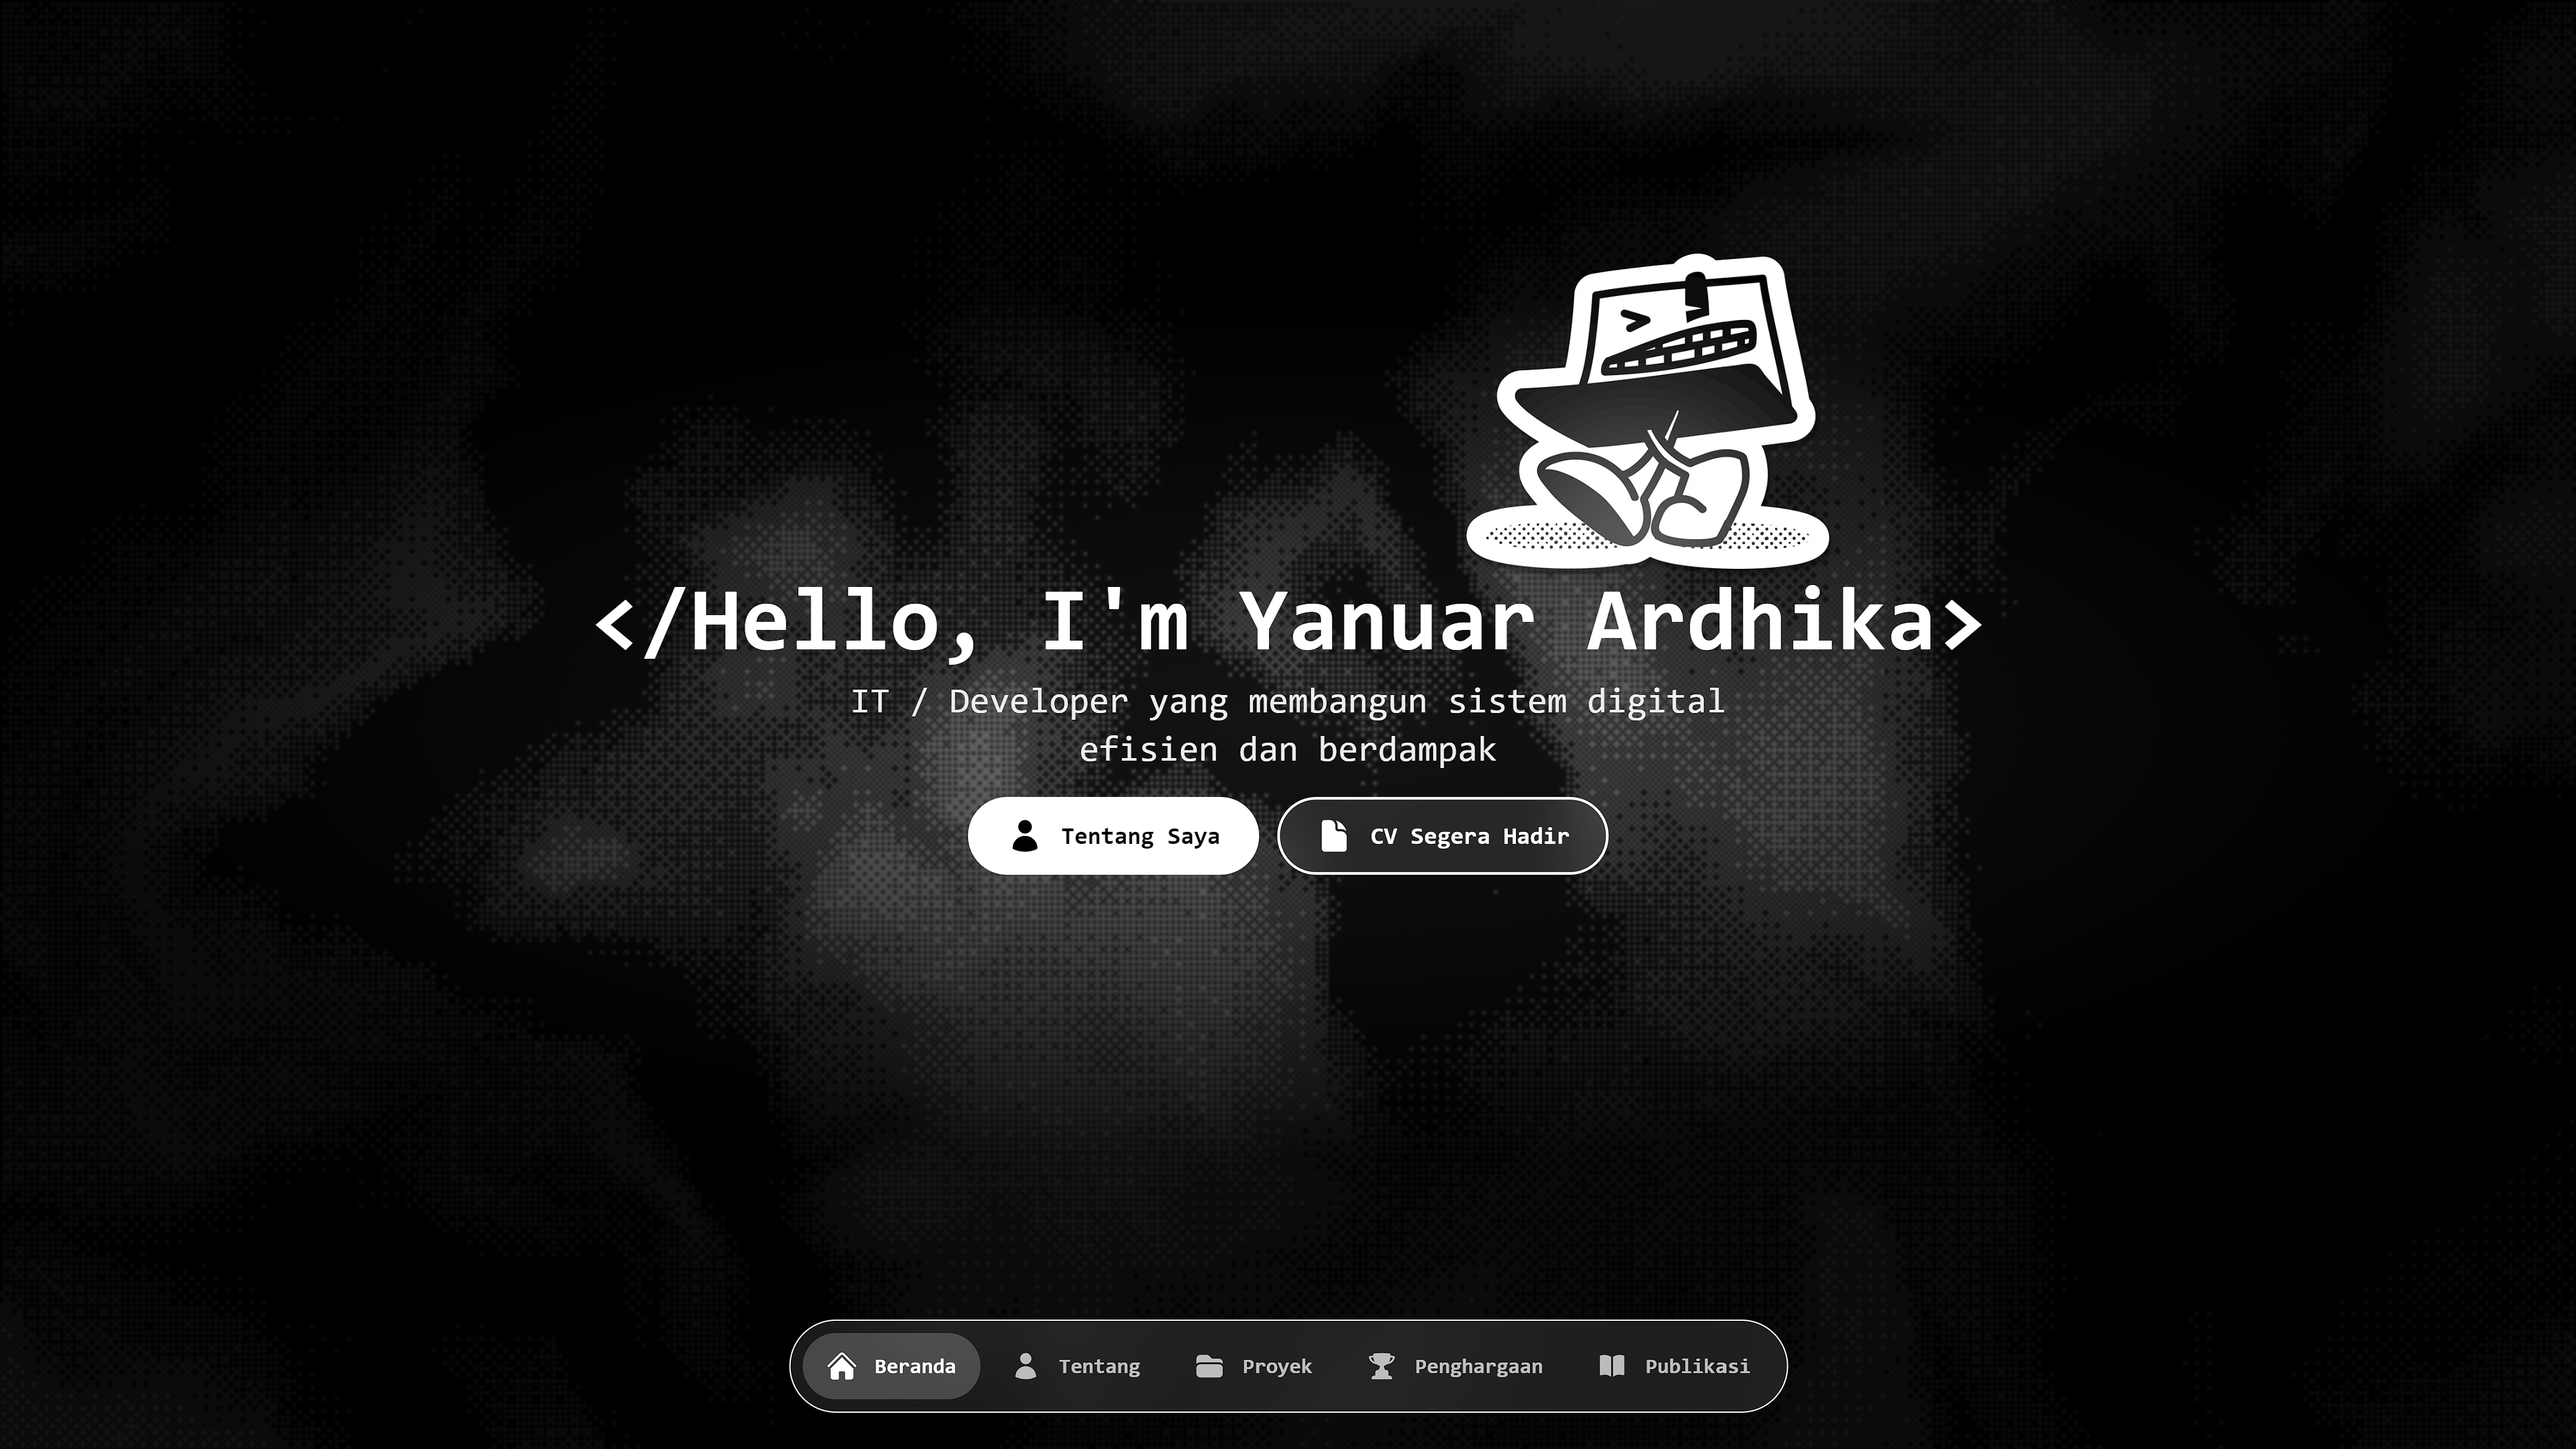
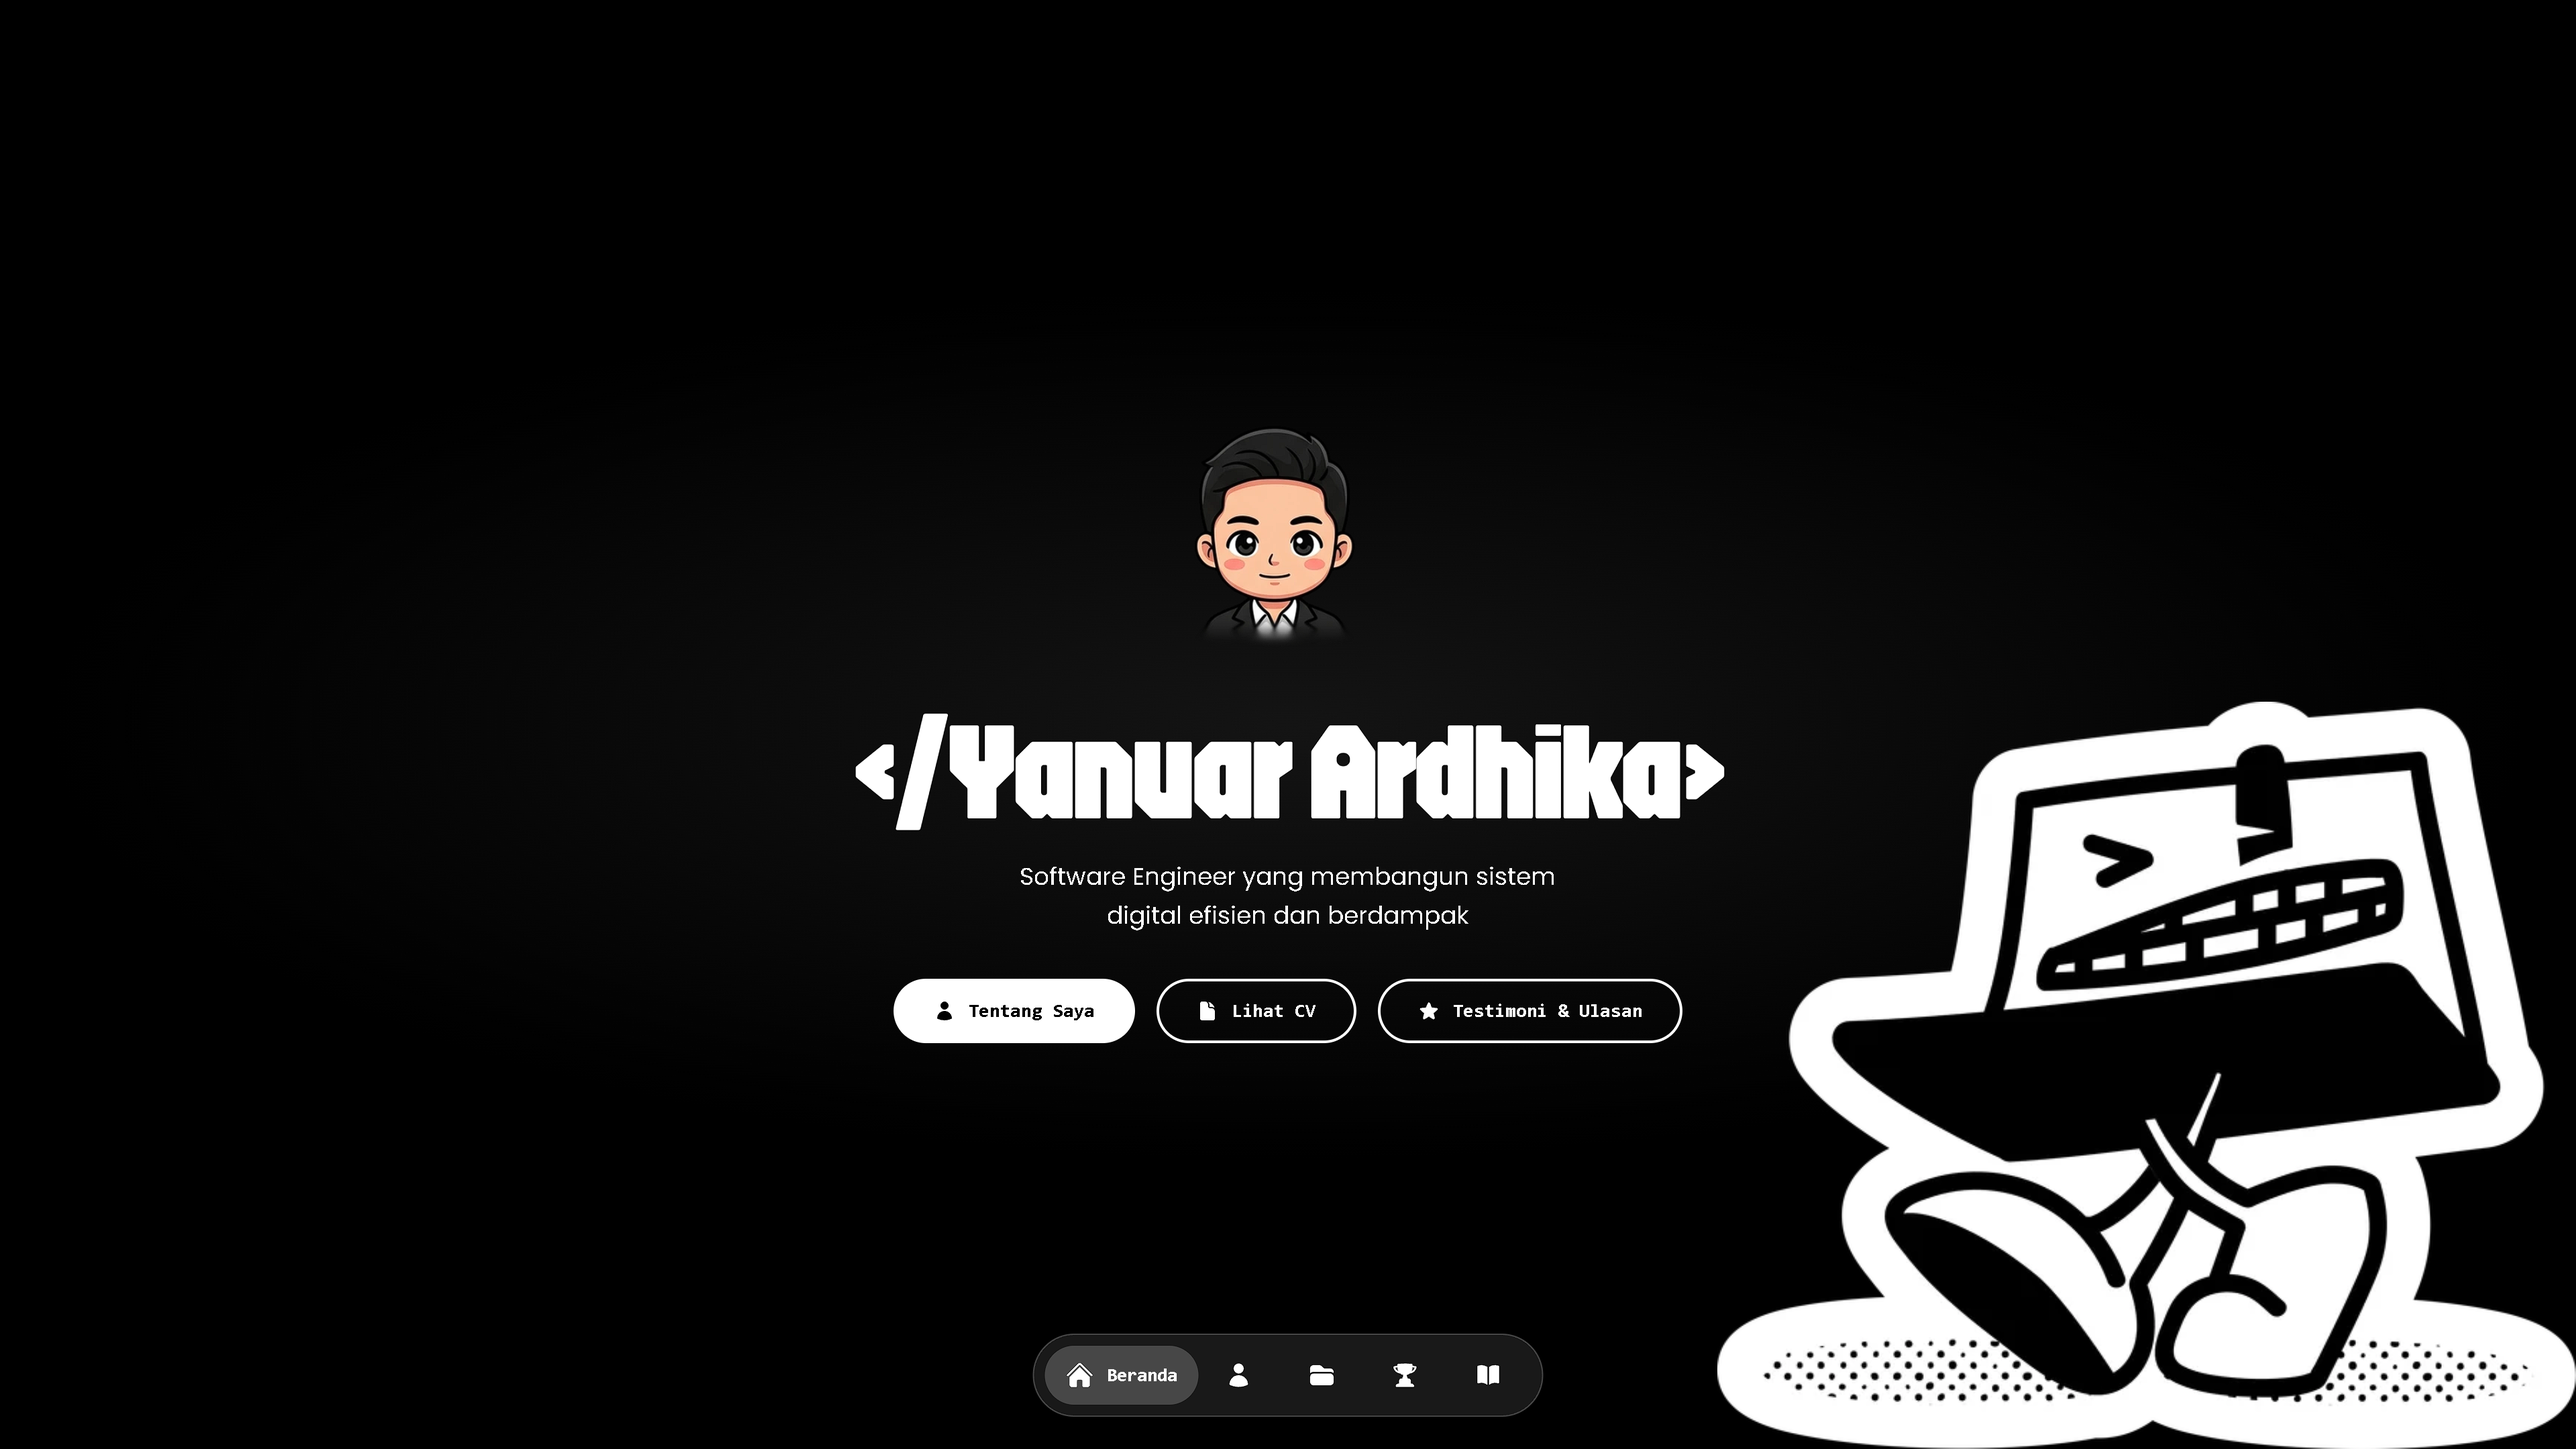
feat: update og-image to latest hero preview with mascot

Changed region(s): [[0.1875, 0.1551, 1.0, 1.0], [0.5625, 0.6824, 0.5938, 0.7134]]

diff --git a/app/layout.tsx b/app/layout.tsx
@@ -66,8 +66,8 @@ export const metadata: Metadata = {
     images: [
       {
         url: `${BASE_URL}/og-image.png`,
-        width: 1456,
-        height: 816,
+        width: 1920,
+        height: 1080,
         alt: "Yanuar Ardhika - Web & Mobile Developer",
       },
     ],
